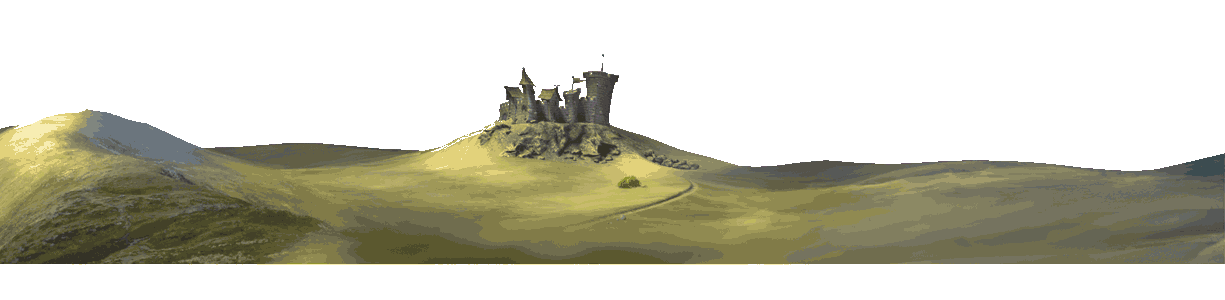
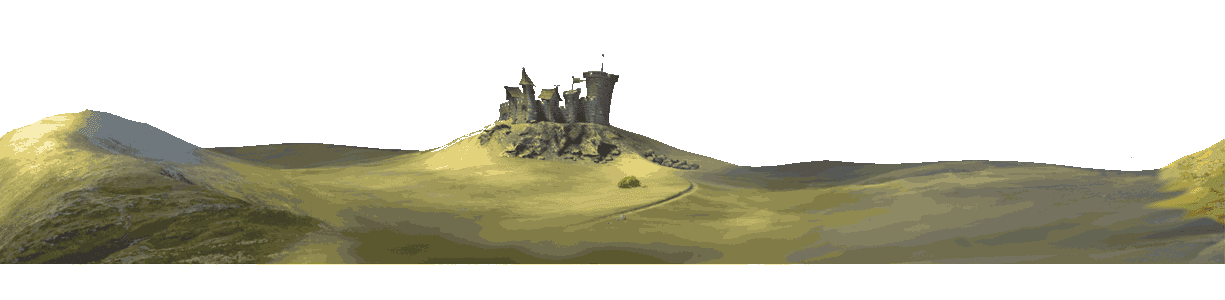
03 - YOLO

Changed region(s): [[0.9306, 0.45, 1.0, 0.75], [0.062, 0.42, 0.0931, 0.45], [0.0, 0.42, 0.031, 0.45]]

diff --git a/js/03-main.js b/js/03-main.js
@@ -2,44 +2,64 @@
     //--  worker
     let worker = new Worker("js/03-worker.js");
 
+    let moveRequestTimeout;
     //--  event trigger pour alimenter le worker
     $("#viewport").on('keydown keyup mousemove', function (e) {
         // une demande de deplacement
+
+        clearTimeout(moveRequestTimeout);
+
         let moveRequest = {
             top: 0,
             left: 0
         };
-        if ([37, 38, 39, 40].indexOf(e.which) != -1) {
-            switch (e.which) { // ou e.keyCode
-                case 37:
-                    moveRequest.left = (e.type == "keydown") ? 1 : 0;
-                    break;
-                case 38:
-                    moveRequest.top = (e.type == "keydown") ? 1 : 0;
-                    break;
-                case 39:
-                    moveRequest.left = (e.type == "keydown") ? -1 : 0;
-                    break;
-                case 40:
-                    moveRequest.top = (e.type == "keydown") ? -1 : 0;
-                    break;
+
+        if (e.type == "keydown" || e.type == "keyup") {
+            console.log(e.type);
+            console.log(moveRequest);
+            if ([37, 38, 39, 40].indexOf(e.which) != -1) {
+
+                switch (e.which) { // ou e.keyCode
+                    case 37:
+                        moveRequest.left = (e.type == "keydown") ? 1 : 0;
+                        break;
+                    case 38:
+                        moveRequest.top = (e.type == "keydown") ? 1 : 0;
+                        break;
+                    case 39:
+                        moveRequest.left = (e.type == "keydown") ? -1 : 0;
+                        break;
+                    case 40:
+                        moveRequest.top = (e.type == "keydown") ? -1 : 0;
+                        break;
+                }
             }
         }
         if (e.type == "mousemove") {
-            moveRequest.left = (e.offsetX > $(".player").first().position().left) ? -1 : 1;
-            moveRequest.top = (e.offsetY > $(".player").first().position().top) ? -1 : 1;
+            try {
+                moveRequest.left = (e.offsetX > $(".player").first().position().left) ? -1 : 1;
+                moveRequest.top = (e.offsetY > $(".player").first().position().top) ? -1 : 1;
+            } catch (exception) {
+                console.error("mousemove exception", exception);
+            } finally {
+                moveRequestTimeout = setTimeout(function () {
+                    worker.postMessage({
+                        top: 0,
+                        left: 0
+                    });
+                }, 100);
+            }
         }
         // on envoie un object au worker
-        worker.postMessage( moveRequest );
+        worker.postMessage(moveRequest);
     });
 
 
-
     //-- event trigger sur les messages retour du worker au travers de l'evenement "message"
-    worker.onmessage = function(event) {
+    worker.onmessage = function (event) {
         // l'evenement est retourné, pour recup l'object associe on appelle event.data
         let message = event.data;
-console.log(message);
+//console.log(message);
         // on peut utiliser plusieurs approches pour itérer (boucles)
         // -- FOR
         //le classique => for(let i=0; i< max; i++) { i }
@@ -53,18 +73,18 @@ console.log(message);
         // pour recup les *propriétés* d'un object => for (let nomPropriété in monObjet) { nomPropriété }
         // pour recup les valeur de *propriétés* d'un object =>   for (let nomPropriété in monObjet) { monObjet[nomPropriété] }
 
-        for (let entity of message){
-            if($("#"+ entity.id).length == 0){
-                $('#map').append($('<div id="'+ entity.id +'" class="'+ entity.class +'">'));
+        for (let entity of message) {
+            if ($("#" + entity.id).length == 0) {
+                $('#map').append($('<div id="' + entity.id + '" class="' + entity.class + '">'));
             }
-            $("#"+ entity.id).removeClass('left right top bottom nearby');
-            $("#"+ entity.id).addClass(entity.angle);
-            $("#"+ entity.id).addClass((entity.isNearby)?'nearby':'');
-            $("#"+ entity.id).css('transform', 'translate(' + entity.x*32 + 'px,' + entity.y*32 + 'px)');
+            $("#" + entity.id).removeClass('left right top bottom nearby');
+            $("#" + entity.id).addClass(entity.angle);
+            $("#" + entity.id).addClass((entity.isNearby) ? 'nearby' : '');
+            $("#" + entity.id).css('transform', 'translate(' + entity.x * 8 + 'px,' + entity.y * 8 + 'px)');
         }
     };
 
-    worker.onerror = function(error) {
+    worker.onerror = function (error) {
         console.error("Worker error: " + error.message + "\n");
         throw error;
     };

diff --git a/assets/css/styles.css b/assets/css/styles.css
@@ -1,50 +1,63 @@
 #viewport {
-    width: 1000px;
-    height: 600px;
-    overflow: hidden;
+    width: 640px;
+    height: 480px;
     position: relative;
+    overflow:hidden;
+}
+#viewport:before {
+    content:"";
+    overflow: hidden;
+    position: absolute;
+    display:block;
+    width: 640px;
+    height: 480px;
+    top:0;
+    left:0;
     background-image:
             url(../img/bg-03.png),
             url(../img/bg-02.png),
             url(../img/bg-01.png),
             url(../img/bg-00.jpg);
     background-size:cover;
-    animation: backgroundscroll 50s linear infinite;
+    background-repeat: repeat-x;
+    animation: backgroundscroll 15s linear infinite;
 }
 #viewport:after {
     content:"";
     display:block;
-    width: 1000px;
-    height: 600px;
+    width: 640px;
+    height: 480px;
     overflow: hidden;
     position: absolute;
     top:0;
     left:0;
-    background-image:
-            url(../img/bg-04.png);
-    background-size:cover;
-    animation: backgroundscroll 50s linear infinite;
-}
+    background-image: url(../img/bg-04.png);
 
+    background-size:cover;
+    background-repeat: repeat-x;
+    animation: backgroundscroll 15s linear infinite;
+}
+@keyframes backgroundscroll {
+    0% {
+        background-position-x: 0;
+    }
+    100% {
+        background-position-x: calc(100% - 640px);
+    }
+}
 #viewport .player {
     position: absolute;
     top: 0;
     left: 0;
 }
 
-.player {
-    width: 32px;
-    height: 32px;
-    background: url(../img/player.png);
-    background-position-y: -96px;
-    transition: transform .2s linear;
-}
+
 
 .enemy {
     position: absolute;
     top: 0;
     left: 0;
-    transition: all .3s ease;
+    transition: all .1s ease;
 }
 .enemy:after {
     content:"";
@@ -62,15 +75,22 @@
     transform:scale(1.8);
 }
 
-@keyframes backgroundscroll {
-    0% {
-        background-position-x: 0;
-    }
-    100% {
-        background-position-x: 100%;
-    }
-}
 
+.player {
+    width: 32px;
+    height: 32px;
+    transition: transform .1s linear;
+}
+.player:before {
+    content:"";
+    display:block;
+    width: 32px;
+    height: 32px;
+    background: url(../img/tako.png);
+    background-position-y: -96px;
+    transition: transform .1s linear;
+    transform:scale(2);
+}
 @keyframes moving {
     0% {
         background-position-x: 0;
@@ -80,23 +100,23 @@
     }
 }
 
-.player.left {
-    animation: moving .2s steps(4) infinite;
+.player.left:before {
+    animation: moving 1.2s steps(4) infinite;
     background-position-y: 0;
 }
 
-.player.right {
-    animation: moving .2s steps(4) infinite;
+.player.right:before {
+    animation: moving 1.2s steps(4) infinite;
     background-position-y: -32px;
 }
 
-.player.top {
-    animation: moving .2s steps(4) infinite;
+.player.top:before {
+    animation: moving 1.2s steps(4) infinite;
     background-position-y: -64px;
 }
 
-.player.bottom {
-    animation: moving .2s steps(4) infinite;
+.player.bottom:before {
+    animation: moving 1.2s steps(4) infinite;
     background-position-y: -96px;
 }
 

diff --git a/js/03-worker.js b/js/03-worker.js
@@ -19,8 +19,8 @@ class Entity {
         this.x -= moveRequest.left;
         this.y -= moveRequest.top;
 
-        this.x = Math.max(Math.min(this.x, 30), 0);
-        this.y = Math.max(Math.min(this.y, 30), 0);
+        this.x = Math.max(Math.min(this.x, 640/8), 0);
+        this.y = Math.max(Math.min(this.y, 480/8), 0);
 
 
         if (moveRequest.left < 0) {
@@ -54,8 +54,8 @@ class Enemy extends Entity{
         this.x += Math.round(Math.random()*2) -1;
         this.y += Math.round(Math.random()*2) -1;
 
-        this.x = Math.max(Math.min(this.x, 30), 0);
-        this.y = Math.max(Math.min(this.y, 30), 0);
+        this.x = Math.max(Math.min(this.x, 640/8), 0);
+        this.y = Math.max(Math.min(this.y, 480/8), 0);
     }
 }
 
@@ -70,20 +70,40 @@ let entities = [];
 // hop on ajoute le player
 entities.push(new Entity('player', 5, 5));
 // hop on ajoute des enemies dans le tableau
-for (let i=0; i < 10; i++){
-    entities.push(new Enemy('enemy', 5, 5));
+for (let i=0; i < 25; i++){
+    entities.push(new Enemy('enemy', Math.round(Math.random()*640/8), Math.round(Math.random()*480/8)));
 }
 
 // le tick
 onmessage = function (event) {
     //console.log(event.data);
-    moveRequest = event.data
+    moveRequest = event.data;
+    //gameTick();
 };
 
 
 let isNearby = function(entity) {
-    entity.isNearby = (Math.abs(entity.x - entities[0].x) <= 3 && Math.abs(entity.y - entities[0].y) <= 3);
-    return entity.isNearby;
+    switch(entity.class){
+        case "player":
+            break;
+            return true;
+        case "enemy":
+            entity.isNearby = (Math.abs(entity.x - entities[0].x) <= 3 && Math.abs(entity.y - entities[0].y) <= 3);
+            return entity.isNearby;
+            break;
+    }
+
+};
+
+let isOnPlayer = function(entity) {
+    switch(entity.class){
+        case "player":
+            return true;
+            break;
+        case "enemy":
+            return !(Math.abs(entity.x - entities[0].x) <= 1 && Math.abs(entity.y - entities[0].y) <= 1);
+            break;
+    }
 };
 
 let gameTick = function () {
@@ -99,14 +119,11 @@ let gameTick = function () {
                 break;
         }
     }
+    // highlight si proche
     entities.filter(isNearby);
-
+    //supprime si sur le player
+    entities = entities.filter(isOnPlayer);
     postMessage(entities);
-
-    moveRequest = {
-        top: 0,
-        left: 0
-    };
 };
 
-self.setInterval(gameTick, 100);
+self.setInterval(gameTick, 16);
